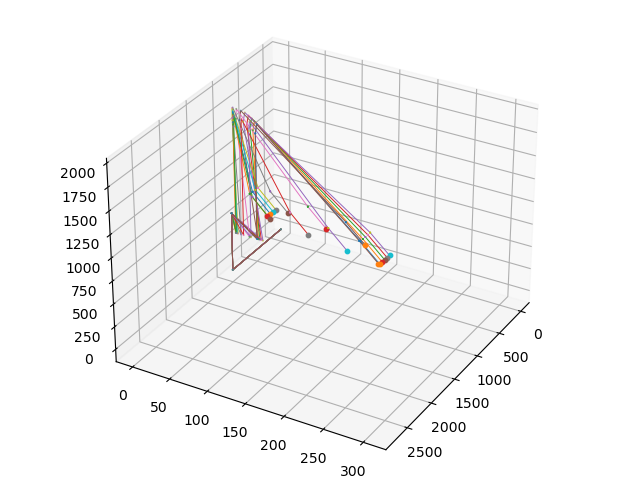
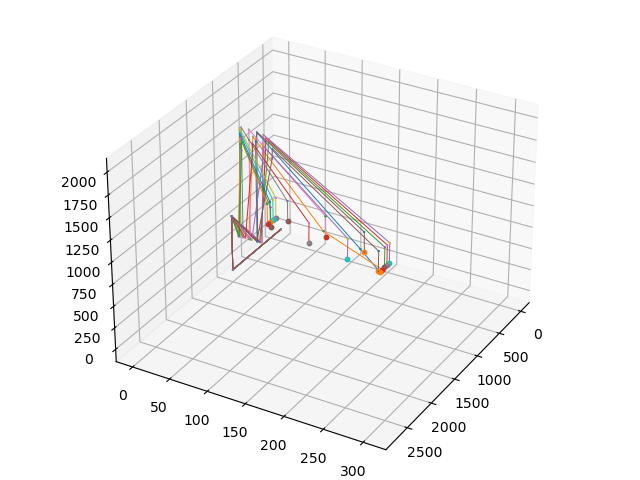
bug fixed

diff --git a/hw4/main.py b/hw4/main.py
@@ -444,7 +444,7 @@ def task_priority(q, links, xyf_target):
         del_e = update_fraction(get_difference(xyf_0, xyf_target),10)
 
         J = jacobian(q, links)
-        J_1 = J
+        J_1 = J[:3,:]
         J_2 = J[3:5,:].reshape((2,-1))
         J_psevd_1 = np.linalg.multi_dot([
             J_1.T,
@@ -462,8 +462,9 @@ def task_priority(q, links, xyf_target):
         ])
 
         psi, theta, phi = euler_angles_from_rotation_matrix(fk(q,links))
-        d_psi = (-90 - psi + 3 * 180) % (2 * 180) - 180
-        d_theta = (-90 - theta + 3* 180)%(2*180) - 180
+        d_psi = (0 - psi + 3 * 180) % (2 * 180) - 180
+        # d_theta = (-90 - theta + 3* 180)%(2*180) - 180
+        d_theta = (0 - theta + 3* 180)%(2*180) - 180
         rot = np.vstack([d_psi, d_theta])
         rot = update_fraction_ang(rot, 5)
 
@@ -471,10 +472,10 @@ def task_priority(q, links, xyf_target):
             np.linalg.multi_dot([
             J_2,
             J_psevd_1,
-            del_e
+            del_e[:3,:]
             ])
 
-        d_q_0 = J_psevd_1.dot(del_e)
+        d_q_0 = J_psevd_1.dot(del_e[:3,:])
         d_q_0 = update_dq(d_q_0, d_q_max)
 
         d_q_1 = np.linalg.multi_dot([
@@ -533,7 +534,7 @@ if __name__ == '__main__':
         np.array([[2734.22], [305.74], [1648.2], [0], [0], [0]]),
     ]
 
-
+    drop = False
     for xyf_target in xyf_targets:
         q_old = q
         # q = pseudoinverse(q, links, xyf_target, W=W)
@@ -541,7 +542,10 @@ if __name__ == '__main__':
         # q = null_space(q_old, links, xyf_target)
         q = task_priority(q, links, xyf_target)
 
-        logs += q
+        if drop:
+            drop = False
+        else:
+            logs += q
         # break
         q = q[-1] if len(q) > 0 else q_old
     print(len(logs))
@@ -556,7 +560,7 @@ if __name__ == '__main__':
     # plt.savefig('pseudoinverse_general.png')
     # plt.savefig('dls_general.png')
     # plt.savefig('null_space_general.png')
-    # plt.savefig('task_priority_general.png')
+    plt.savefig('task_priority_general.png')
     plt.show()
 
     px = []
@@ -575,7 +579,7 @@ if __name__ == '__main__':
     # plt.savefig('pseudoinverse_path.png')
     # plt.savefig('dls_path.png')
     # plt.savefig('null_space_path.png')
-    # plt.savefig('task_priority_path.png')
+    plt.savefig('task_priority_path.png')
 
     plt.show()
 
